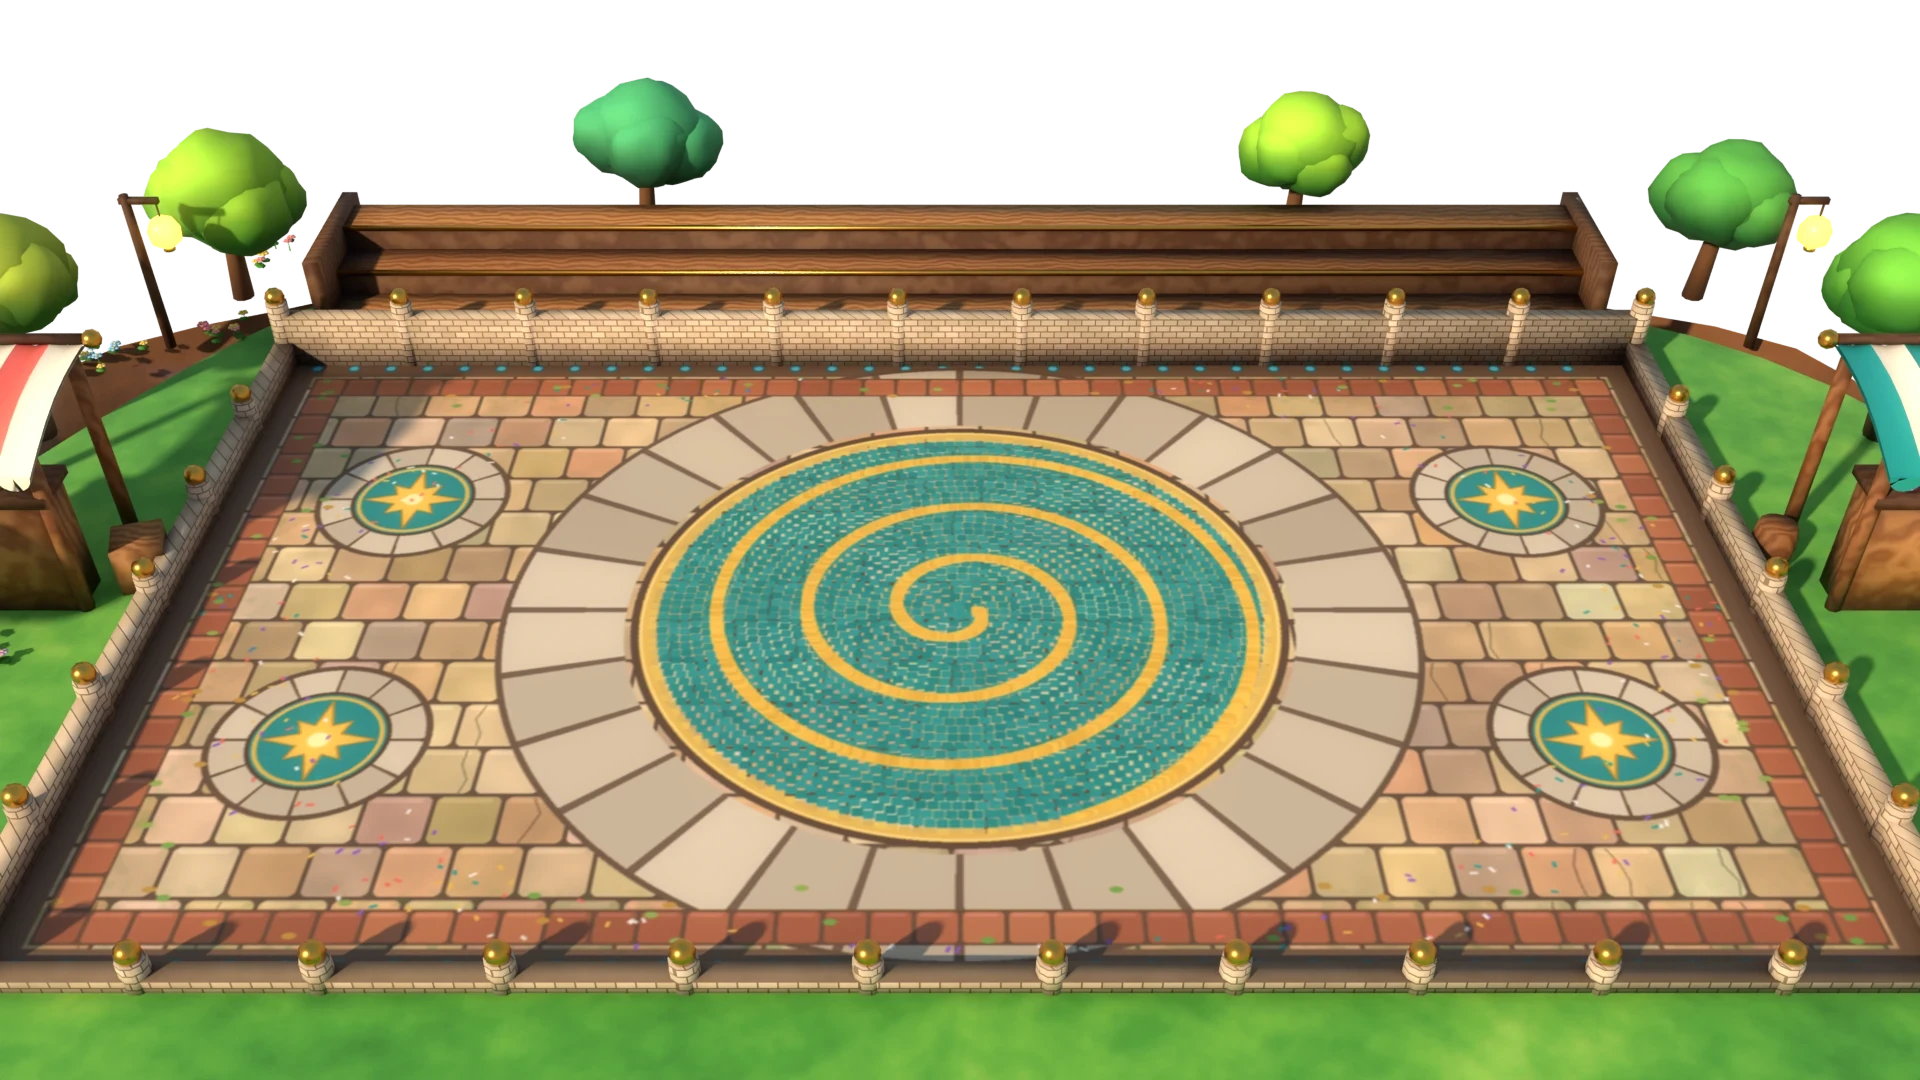
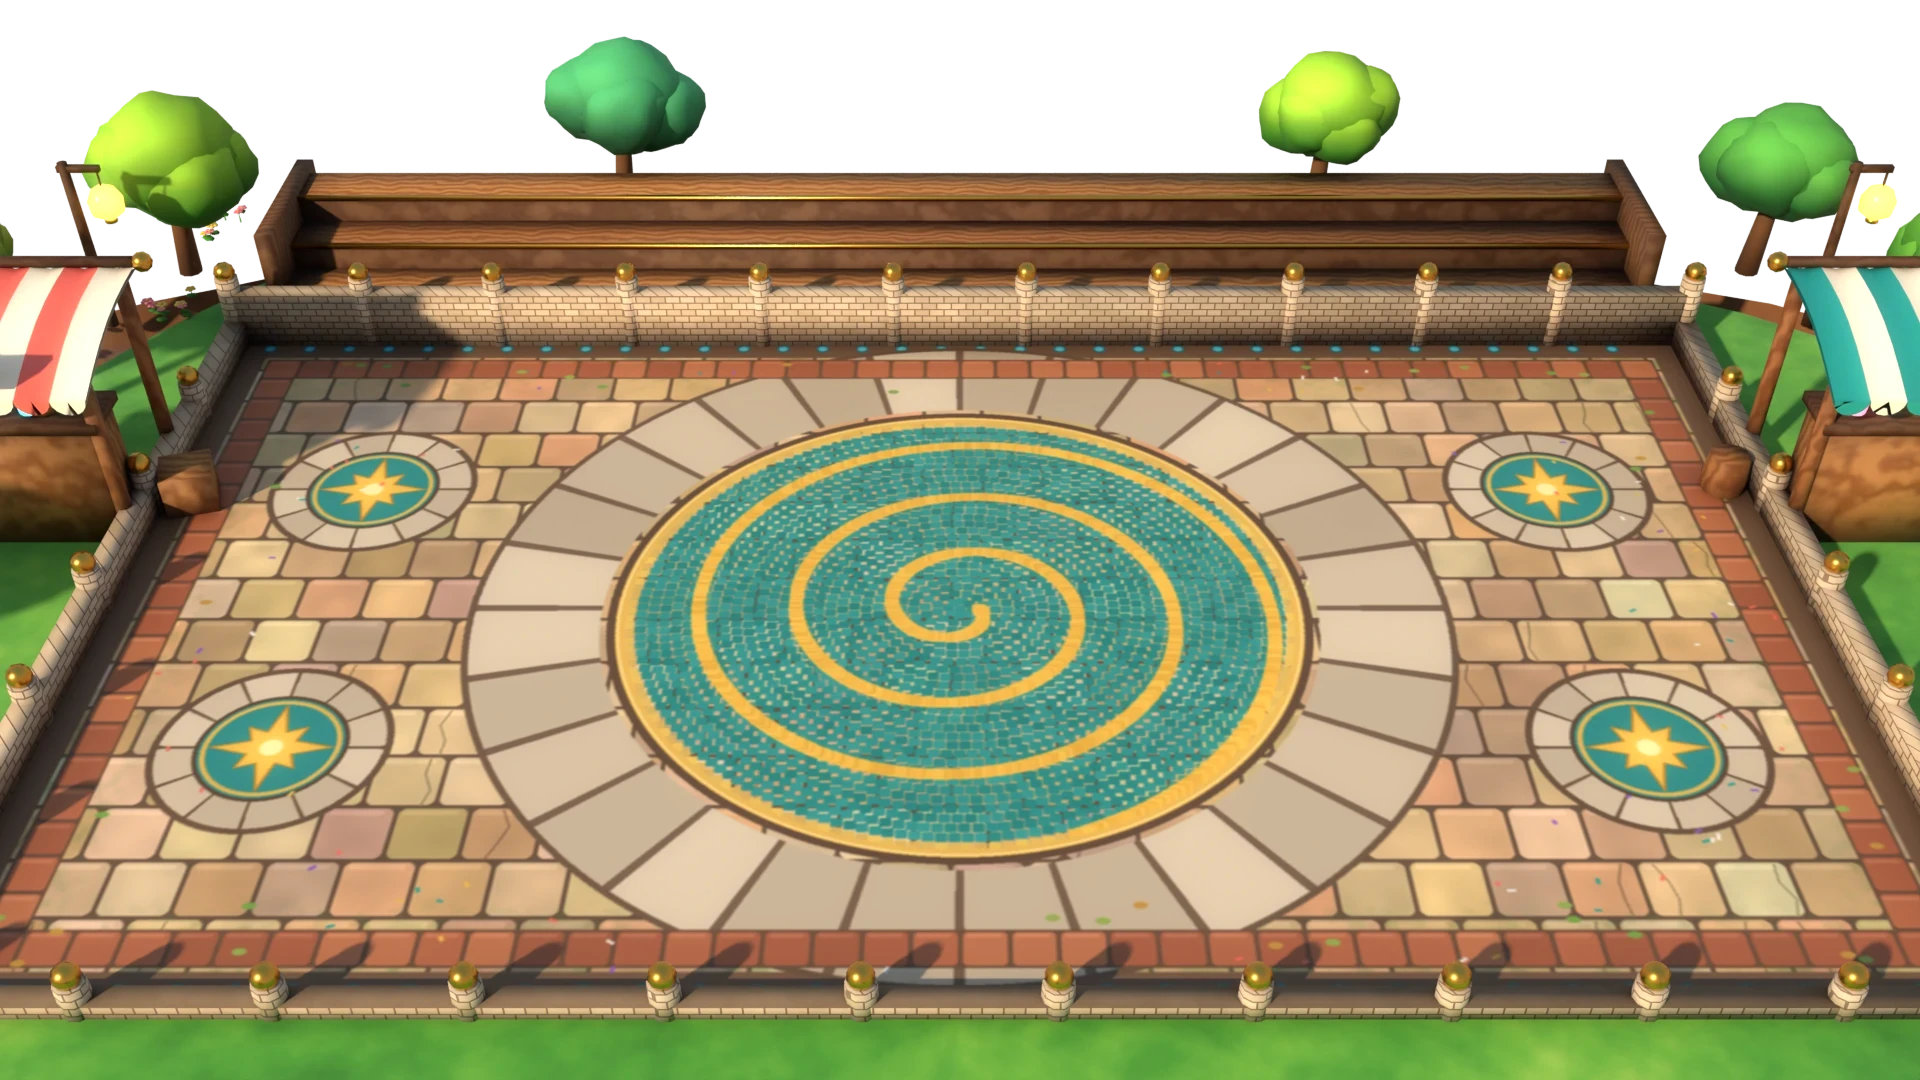
Taller results podiums; Gleam Grab and Orbit Dodge re-renders
Podium heights go from 230/160/110/60 to 270/200/150/105 so fourth place
stands on a pedestal rather than a disc. The Gleam Grab stage is re-shot
with the tighter lens and the Orbit Dodge floor with its new relief.

Claude-Session: https://claude.ai/code/session_01SaCmMRmT6ous3ZUywnLqEj

diff --git a/src/game/scenes/ResultsScene.ts b/src/game/scenes/ResultsScene.ts
@@ -20,7 +20,7 @@ import { setDebugInfo } from '../debug/debug';
 
 /** Podium x and height by finishing place (1st in the centre). Must match scripts/art/scenes.py. */
 const PODIUM_X = [960, 600, 1320, 1680];
-const PODIUM_H = [230, 160, 110, 60];
+const PODIUM_H = [270, 200, 150, 105];
 const PODIUM_BASE = 880;
 /** Camera elevation of the rendered results stage (degrees). */
 const STAGE_ELEV = 16;

diff --git a/scripts/art/scenes.py b/scripts/art/scenes.py
@@ -783,7 +783,7 @@ def select():
 # ------------------------------------------------------------------------------------------
 # Results podium: x and height by finishing place (1st in the centre). Must match ResultsScene.
 RESULT_X = [960, 600, 1320, 1680]
-RESULT_H = [230, 160, 110, 60]
+RESULT_H = [270, 200, 150, 105]
 RESULT_BASE = 880
 RANK_ACCENT = ['#f2c14e', '#d9e2ea', '#d8894a', '#5fb3ad']
 RANK_TOP = ['#fff0c2', '#f2f5f8', '#f8dcc2', '#e8efea']
